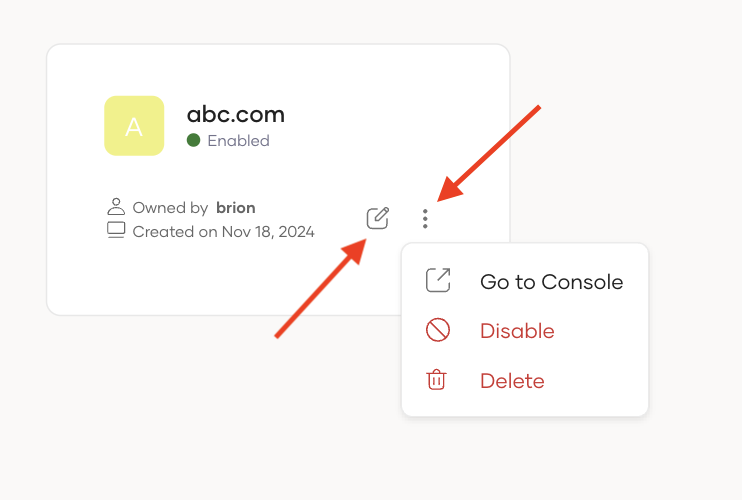
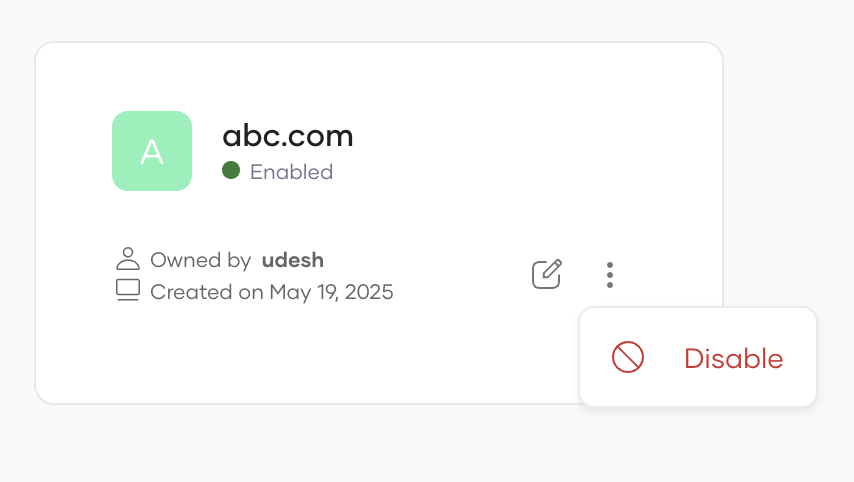
Remove outdated content from the manage organizations section

diff --git a/en/identity-server/7.1.0/docs/guides/multitenancy/manage-tenants.md b/en/identity-server/7.1.0/docs/guides/multitenancy/manage-tenants.md
@@ -95,15 +95,12 @@ To view the details of the root organization, follow the steps given below.
 
     - **Edit**: Click on the **Edit** button to navigate to the details page of the respective root organization.
     - **More**: Click on the elipsis icon to view more actions.
-        - **Go to Console**: Navigate to the Console of the respective root organization.
         - **Disable** / **Enable**: Depending on the current status of the root organization, you can disable or enable it.
-        - **Delete**: Delete the root organization.
 
 3. If you want to view details of a specific root organization, click on the **Edit** button of the respective root organization. Inside the root organization details page, you can perform the following actions:
 
     - **Edit Admin Details**: You can update the first name, last name, email, and password of the root organization admin.
     - **Disable** / **Enable**: Depending on the current status of the root organization, you can disable or enable it.
-    - **Delete**: Delete the root organization.
 
       ![Root Organization Details]({{base_path}}/assets/img/guides/multitenancy/root-organization-details.png)
 

diff --git a/en/identity-server/next/docs/guides/multitenancy/manage-tenants.md b/en/identity-server/next/docs/guides/multitenancy/manage-tenants.md
@@ -95,15 +95,12 @@ To view the details of the root organization, follow the steps given below.
 
     - **Edit**: Click on the **Edit** button to navigate to the details page of the respective root organization.
     - **More**: Click on the elipsis icon to view more actions.
-        - **Go to Console**: Navigate to the Console of the respective root organization.
         - **Disable** / **Enable**: Depending on the current status of the root organization, you can disable or enable it.
-        - **Delete**: Delete the root organization.
 
 3. If you want to view details of a specific root organization, click on the **Edit** button of the respective root organization. Inside the root organization details page, you can perform the following actions:
 
     - **Edit Admin Details**: You can update the first name, last name, email, and password of the root organization admin.
     - **Disable** / **Enable**: Depending on the current status of the root organization, you can disable or enable it.
-    - **Delete**: Delete the root organization.
 
       ![Root Organization Details]({{base_path}}/assets/img/guides/multitenancy/root-organization-details.png)
 
